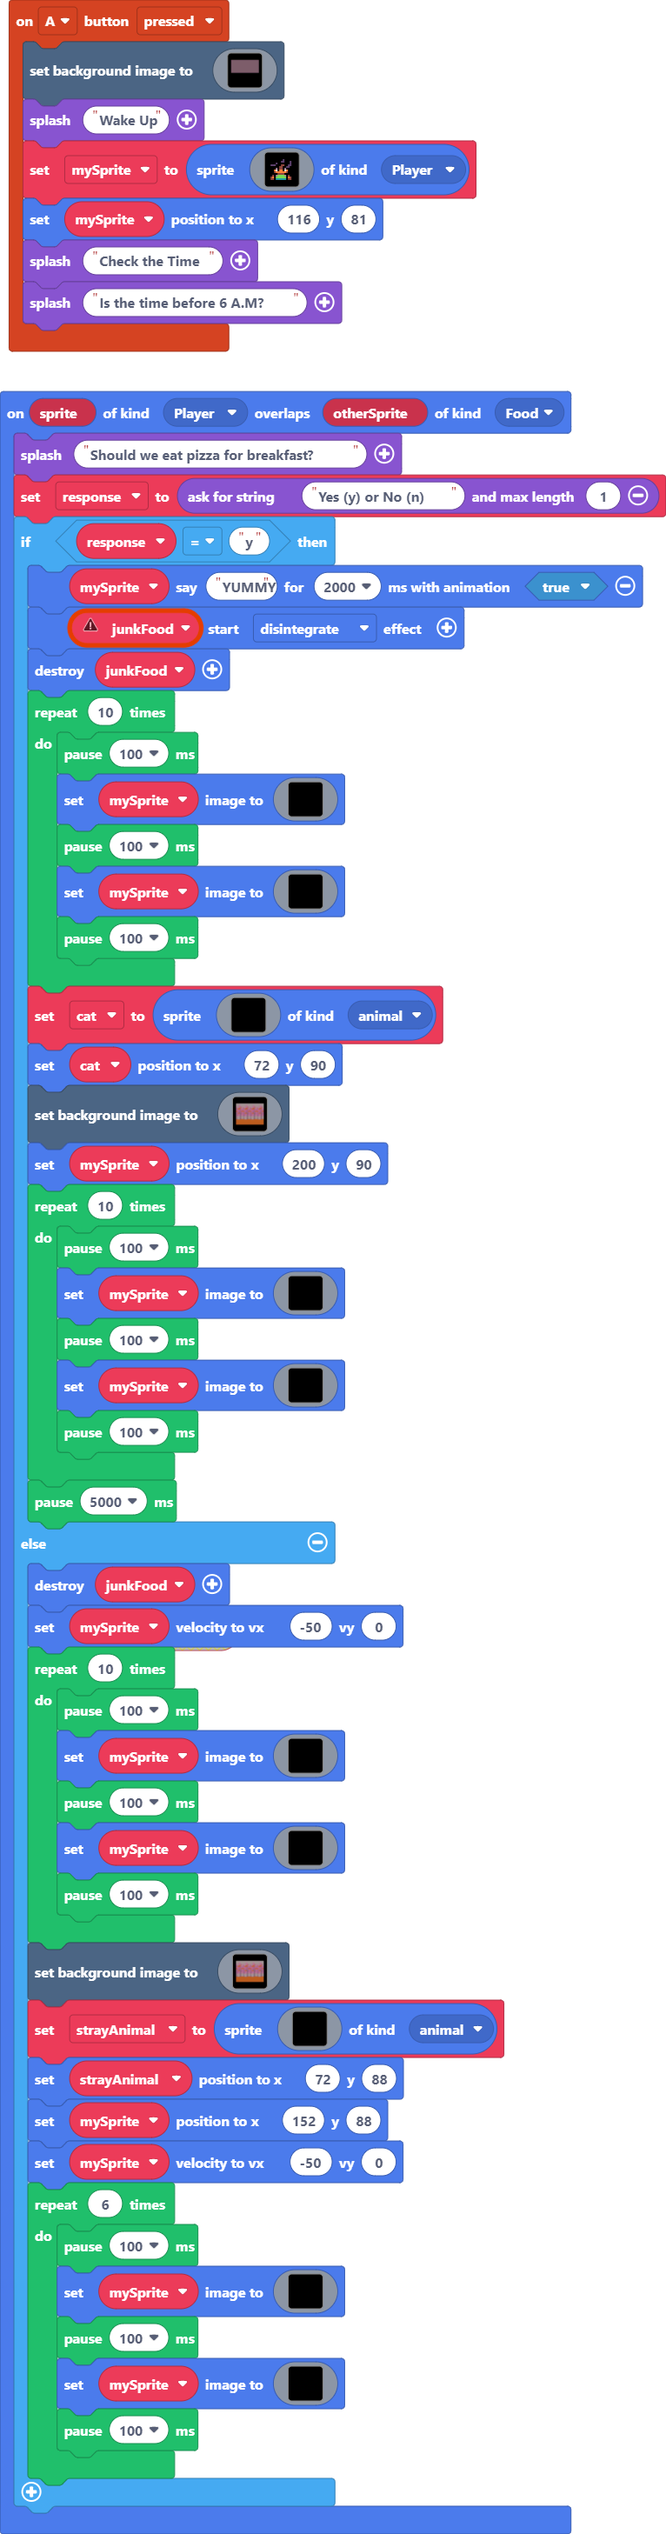
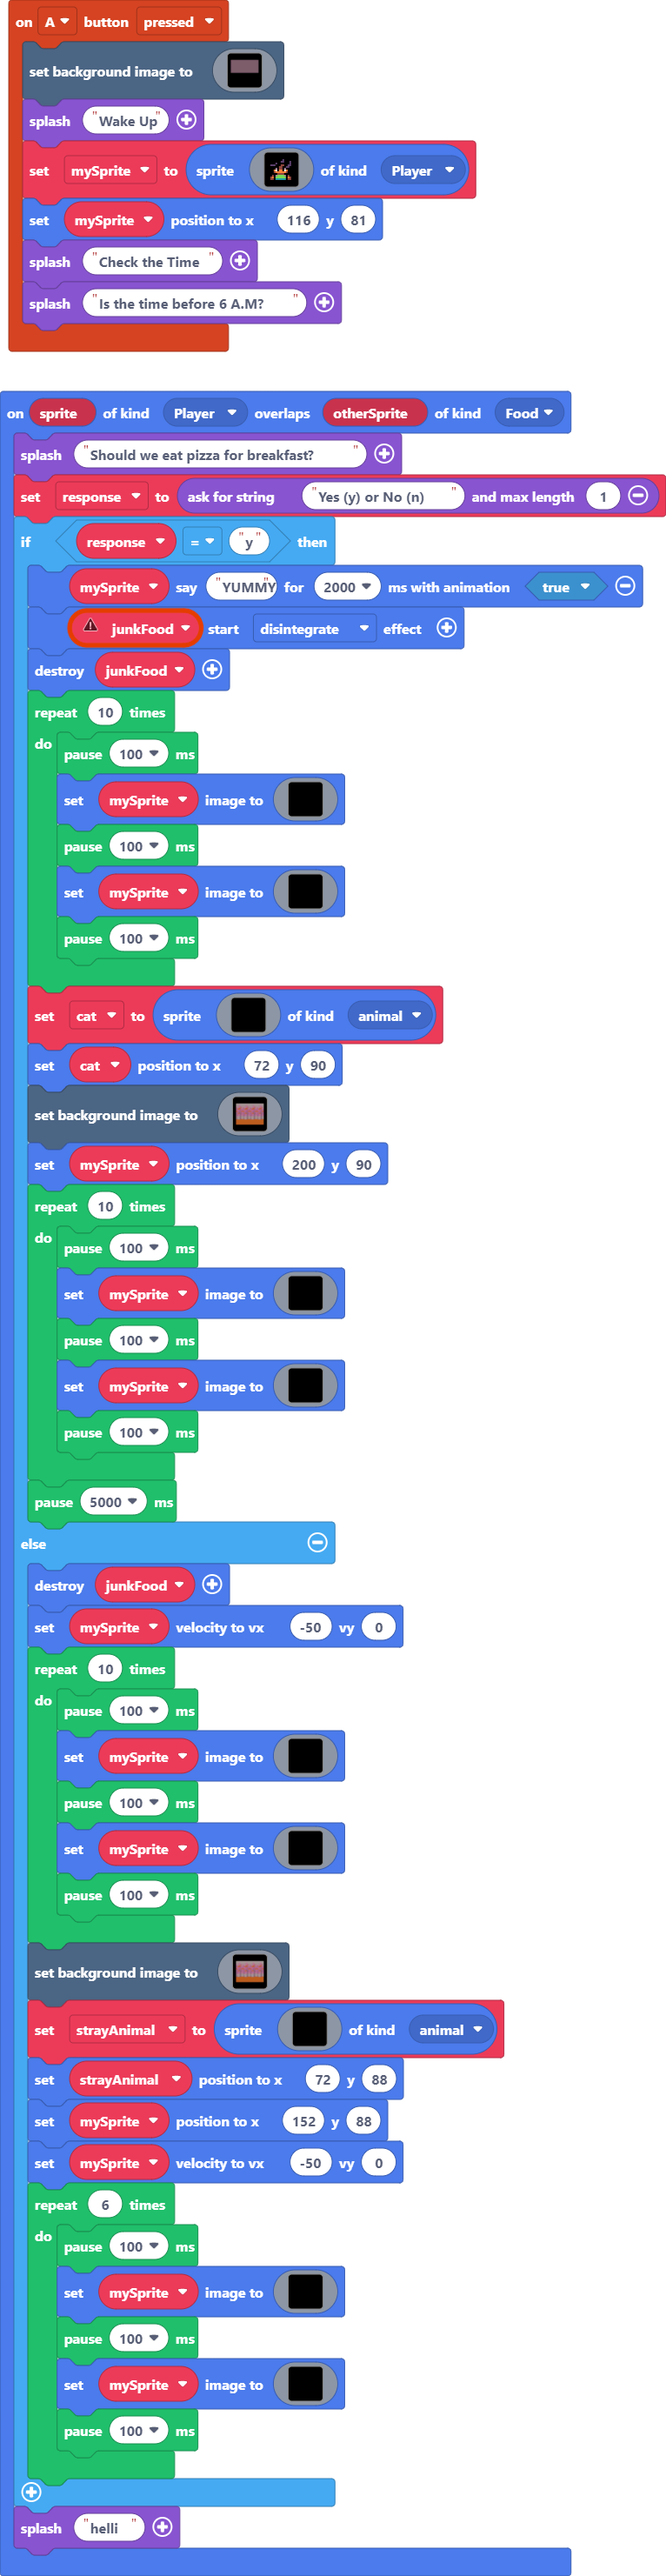
Update main.blocks, main.ts

Changed region(s): [[0.0, 0.0, 1.0, 0.9993]]

diff --git a/main.ts b/main.ts
@@ -613,4 +613,5 @@ sprites.onOverlap(SpriteKind.Player, SpriteKind.Food, function (sprite, otherSpr
             pause(100)
         }
     }
+    game.splash("helli")
 })
